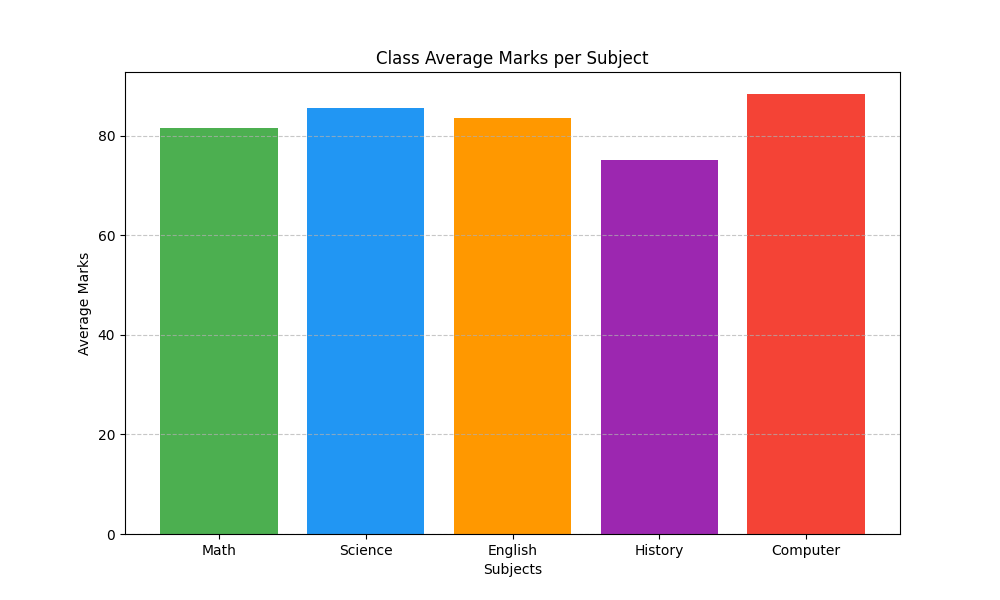
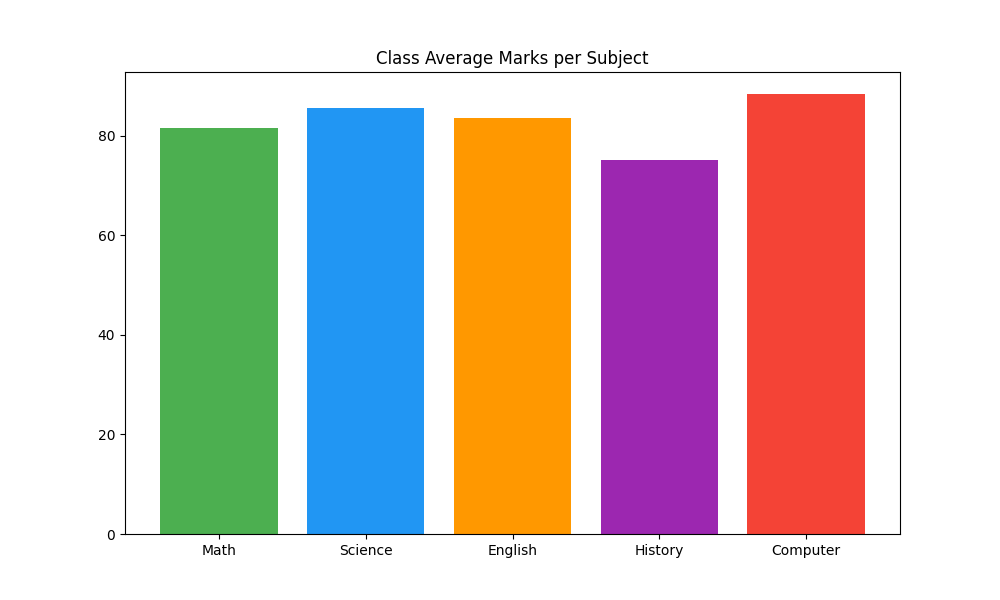
Upgraded Stubent Graph

Changed region(s): [[0.062, 0.42, 0.093, 0.6], [0.465, 0.93, 0.558, 0.96]]

diff --git a/dashboard.py b/dashboard.py
@@ -1,39 +1,30 @@
 import pandas as pd
 import numpy as np
 import matplotlib.pyplot as plt
+from fpdf import FPDF
 import os
 
 # --- CONFIGURATION ---
 INPUT_FILE = 'student_marks.csv'
 OUTPUT_FILE = 'summary_report.csv'
+REPORT_DIR = 'student_reports'  # Folder to save PDFs
 SUBJECTS = ['Math', 'Science', 'English', 'History', 'Computer']
 
+
 def load_data(filepath):
-    """
-    Step 1: Read marks from CSV.
-    """
     if not os.path.exists(filepath):
         print(f"Error: The file '{filepath}' was not found.")
         return None
-    
     print("Loading data...")
-    df = pd.read_csv(filepath)
-    return df
+    return pd.read_csv(filepath)
+
 
 def calculate_performance(df):
-    """
-    Step 2: Calculate Total, Percentage, and Grade using NumPy.
-    """
     print("Calculating performance metrics...")
-    
-    # Calculate Total Marks (Summing the subject columns)
     df['Total_Marks'] = df[SUBJECTS].sum(axis=1)
-    
-    # Calculate Percentage (Assuming each subject is out of 100)
     total_possible_marks = len(SUBJECTS) * 100
     df['Percentage'] = (df['Total_Marks'] / total_possible_marks) * 100
-    
-    # Calculate Grade using NumPy's select
+
     conditions = [
         (df['Percentage'] >= 90),
         (df['Percentage'] >= 80),
@@ -41,111 +32,126 @@ def calculate_performance(df):
         (df['Percentage'] >= 60),
         (df['Percentage'] < 60)
     ]
-    
     grades = ['A+', 'A', 'B', 'C', 'F']
-    
-    # --- THE FIX IS HERE ---
-    # We added "default='F'" so it doesn't try to use the number 0
+
+    # FIXED: Added default='F' to prevent the error you saw earlier
     df['Grade'] = np.select(conditions, grades, default='F')
-    
     return df
 
-def perform_subject_analysis(df):
-    """
-    Step 3: Subject-wise analysis (avg, max, min).
-    """
-    print("\n--- Subject-Wise Analysis ---")
-    
-    # We create a dictionary to store stats to easily convert to DataFrame later if needed
-    analysis = {}
-    
-    for subject in SUBJECTS:
-        avg_mark = df[subject].mean()
-        max_mark = df[subject].max()
-        min_mark = df[subject].min()
-        
-        analysis[subject] = {'Average': avg_mark, 'Max': max_mark, 'Min': min_mark}
-        
-        print(f"{subject}: Avg={avg_mark:.2f}, Max={max_mark}, Min={min_mark}")
-        
-    return analysis
 
-def plot_graphs(df):
+def analyze_top_performers(df):
     """
-    Step 4: Generate Graphs (Bar Chart and Line Chart).
+    UPGRADE: Identify and print the top 3 students.
     """
-    print("\nGenerating graphs...")
-    
-    # --- GRAPH 1: Average Subject-Wise Marks (Bar Chart) ---
+    print("\n--- 🏆 Top 3 Performers ---")
+    # Sort by Percentage in Descending order (Highest first)
+    top_students = df.sort_values(by='Percentage', ascending=False).head(3)
+
+    rank = 1
+    for index, row in top_students.iterrows():
+        print(f"#{rank}: {row['Name']} - {row['Percentage']:.2f}% (Grade: {row['Grade']})")
+        rank += 1
+
+
+def plot_advanced_graphs(df):
+    """
+    UPGRADE: Added a Pie Chart for Grade Distribution.
+    """
+    print("\nGenerating advanced graphs...")
+
+    # 1. Bar Chart (Existing)
     avg_marks = df[SUBJECTS].mean()
-    
     plt.figure(figsize=(10, 6))
-    colors = ['#4CAF50', '#2196F3', '#FF9800', '#9C27B0', '#F44336'] # Custom colors
-    plt.bar(SUBJECTS, avg_marks, color=colors)
-    
+    plt.bar(SUBJECTS, avg_marks, color=['#4CAF50', '#2196F3', '#FF9800', '#9C27B0', '#F44336'])
     plt.title('Class Average Marks per Subject')
-    plt.xlabel('Subjects')
-    plt.ylabel('Average Marks')
-    plt.grid(axis='y', linestyle='--', alpha=0.7)
-    
-    # Save the plot
     plt.savefig('subject_performance_bar.png')
-    print("Graph saved: subject_performance_bar.png")
-    plt.show() # Show the plot window
+    plt.close()  # Close to prevent too many windows popping up
 
-    # --- GRAPH 2: Student Performance Over Semesters (Line Chart) ---
-    # We will pick one student to visualize (e.g., John Doe - ID 101)
-    student_id = 101
-    student_data = df[df['Student_ID'] == student_id]
-    
-    if not student_data.empty:
-        student_name = student_data.iloc[0]['Name']
-        
-        plt.figure(figsize=(10, 6))
-        plt.plot(student_data['Semester'], student_data['Percentage'], marker='o', linestyle='-', color='b', linewidth=2)
-        
-        plt.title(f'Performance Trend: {student_name} (Over Semesters)')
-        plt.xlabel('Semester')
-        plt.ylabel('Percentage')
-        plt.xticks(student_data['Semester']) # Ensure only integer semesters are shown
-        plt.ylim(0, 100)
-        plt.grid(True)
-        
-        # Save the plot
-        plt.savefig(f'student_{student_id}_trend_line.png')
-        print(f"Graph saved: student_{student_id}_trend_line.png")
-        plt.show()
-    else:
-        print(f"Student ID {student_id} not found for Line Chart.")
+    # 2. Grade Distribution Pie Chart (NEW)
+    grade_counts = df['Grade'].value_counts()
 
-def export_summary(df):
+    plt.figure(figsize=(7, 7))
+    plt.pie(grade_counts, labels=grade_counts.index, autopct='%1.1f%%', startangle=140,
+            colors=['gold', 'lightblue', 'lightgreen', 'orange', 'red'])
+    plt.title('Grade Distribution (Class Performance)')
+    plt.savefig('grade_distribution_pie.png')
+    print("Graphs saved: 'subject_performance_bar.png' and 'grade_distribution_pie.png'")
+    # We show the Pie chart to the user
+    plt.show()
+
+
+def generate_pdf_reports(df):
     """
-    Step 5: Export summary to CSV.
+    UPGRADE: Generate a PDF Report Card for EACH student.
     """
-    try:
-        df.to_csv(OUTPUT_FILE, index=False)
-        print(f"\nSuccess! Summary report exported to '{OUTPUT_FILE}'")
-    except Exception as e:
-        print(f"Error exporting file: {e}")
+    print("\nGenerating PDF Report Cards...")
 
-# --- MAIN EXECUTION BLOCK ---
+    # Create directory if it doesn't exist
+    if not os.path.exists(REPORT_DIR):
+        os.makedirs(REPORT_DIR)
+
+    for index, row in df.iterrows():
+        pdf = FPDF()
+        pdf.add_page()
+        pdf.set_font("Arial", size=12)
+
+        # Header
+        pdf.set_font("Arial", 'B', 16)
+        pdf.cell(200, 10, txt=f"Student Report Card", ln=True, align='C')
+        pdf.ln(10)  # Line break
+
+        # Student Details
+        pdf.set_font("Arial", size=12)
+        pdf.cell(200, 10, txt=f"Name: {row['Name']}", ln=True)
+        pdf.cell(200, 10, txt=f"Student ID: {row['Student_ID']}", ln=True)
+        pdf.cell(200, 10, txt=f"Semester: {row['Semester']}", ln=True)
+        pdf.ln(10)
+
+        # Marks Table Header
+        pdf.set_font("Arial", 'B', 12)
+        pdf.cell(100, 10, txt="Subject", border=1)
+        pdf.cell(50, 10, txt="Marks Obtained", border=1)
+        pdf.ln()
+
+        # Marks Rows
+        pdf.set_font("Arial", size=12)
+        for subject in SUBJECTS:
+            pdf.cell(100, 10, txt=subject, border=1)
+            pdf.cell(50, 10, txt=str(row[subject]), border=1)
+            pdf.ln()
+
+        pdf.ln(10)
+
+        # Final Summary
+        pdf.set_font("Arial", 'B', 12)
+        pdf.cell(200, 10, txt=f"Total Marks: {row['Total_Marks']} / {len(SUBJECTS) * 100}", ln=True)
+        pdf.cell(200, 10, txt=f"Percentage: {row['Percentage']:.2f}%", ln=True)
+        pdf.set_text_color(255, 0, 0) if row['Grade'] == 'F' else pdf.set_text_color(0, 128, 0)
+        pdf.cell(200, 10, txt=f"Final Grade: {row['Grade']}", ln=True)
+
+        # Save PDF
+        filename = f"{REPORT_DIR}/{row['Name']}_Sem{row['Semester']}_Report.pdf"
+        pdf.output(filename)
+
+    print(f"Success! All report cards saved in the '{REPORT_DIR}' folder.")
+
+
+# --- MAIN EXECUTION ---
 if __name__ == "__main__":
-    # 1. Load
     data = load_data(INPUT_FILE)
-    
-    if data is not None:
-        # 2. Process
-        processed_data = calculate_performance(data)
-        
-        # Show top 5 rows in console
-        print("\n--- Processed Data Preview ---")
-        print(processed_data[['Name', 'Semester', 'Total_Marks', 'Percentage', 'Grade']].head())
 
-        # 3. Analyze
-        perform_subject_analysis(processed_data)
-        
-        # 4. Visualize
-        plot_graphs(processed_data)
-        
-        # 5. Export
-        export_summary(processed_data)
+    if data is not None:
+        # 1. Process
+        processed_data = calculate_performance(data)
+
+        # 2. Analyze Top Performers (NEW)
+        analyze_top_performers(processed_data)
+
+        # 3. Visualizations (UPDATED)
+        plot_advanced_graphs(processed_data)
+
+        # 4. Generate PDFs (NEW)
+        generate_pdf_reports(processed_data)
+
+        # 5. Export Summary
+        processed_data.to_csv(OUTPUT_FILE, index=False)
